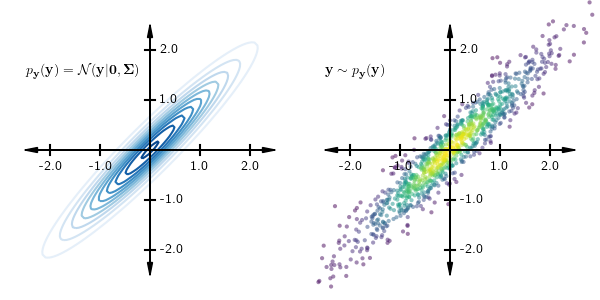
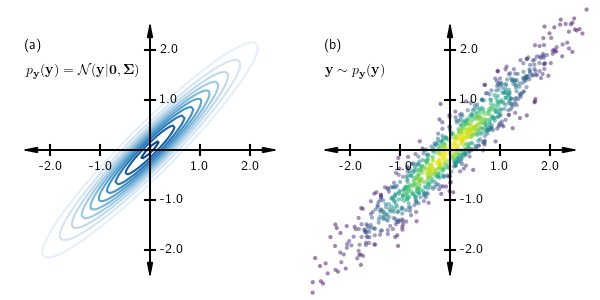
added plots for the 2d gaussian distribution

diff --git a/src/examples/banana-npy.py b/src/examples/banana-npy.py
@@ -58,9 +58,11 @@ def plotGaussianDensity(xx, yy, vals, ys, colors, outFile):
 
     axs[0].contour( xx, yy, vals, levels=10, cmap='Blues', zorder=10 )
     axs[0].text(-2.5, 1.5, r'$p_{\mathbf y}( \mathbf y) = \mathcal N(\mathbf y| \mathbf 0, \mathbf \Sigma)$')
+    axs[0].text(-2.5, 2, r'(a)')
 
     axs[1].scatter(ys[:,0], ys[:,1], marker='.', c = colors, alpha=0.5, edgecolors='none', zorder=20)
     axs[1].text(-2.5, 1.5, r'$\mathbf y \sim p_{\mathbf y}( \mathbf y)$')
+    axs[1].text(-2.5, 2, r'(b)')
 
     for i in range(2):
         axs[i].set_xlim([-3,3])
